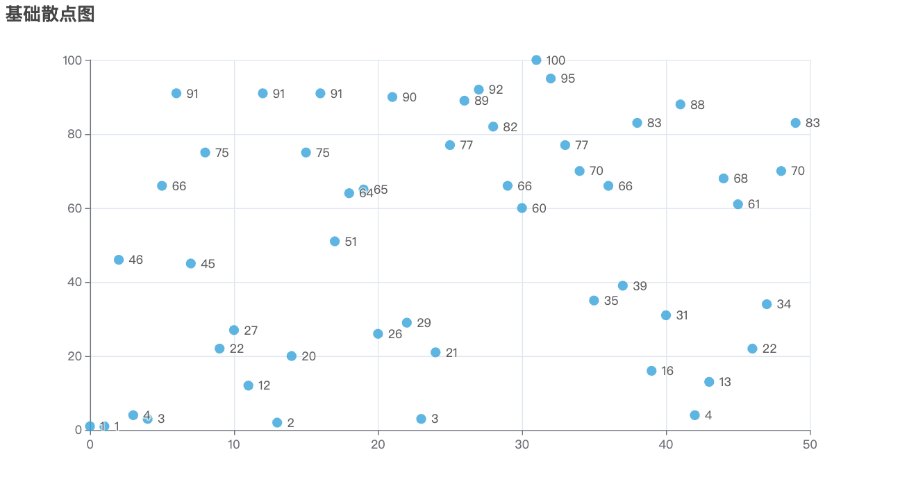
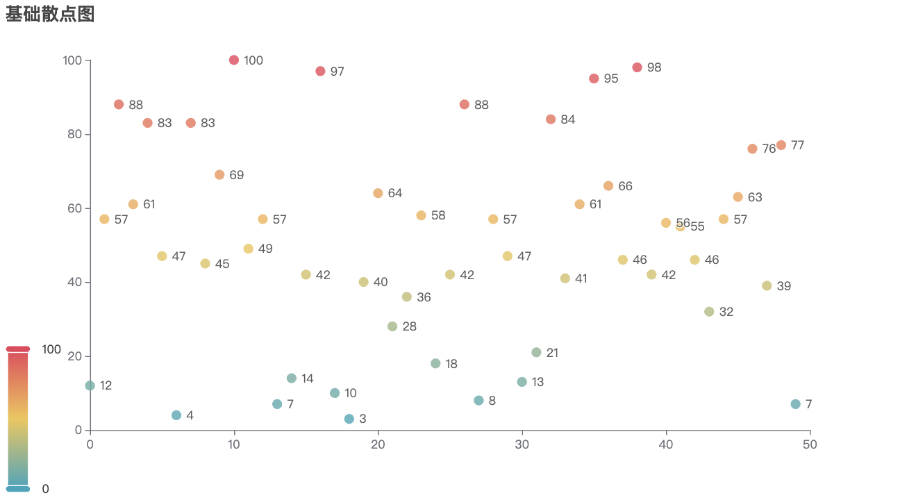
pyecharts

diff --git a/docs/analysis/pyecharts.md b/docs/analysis/pyecharts.md
@@ -230,14 +230,198 @@ scatter = (
     .add_xaxis(x_data)
     .add_yaxis("",y_axis=y_data)
     .set_global_opts(title_opts=opts.TitleOpts(title="基础散点图"),
-                     xaxis_opts=opts.AxisOpts(type_="value"),
-                     yaxis_opts=opts.AxisOpts(type_="value"),
-                     toolbox_opts=opts.ToolboxOpts())
+                     xaxis_opts=opts.AxisOpts(type_="value",splitline_opts=opts.SplitLineOpts()),
+                     yaxis_opts=opts.AxisOpts(type_="value",splitline_opts=opts.SplitLineOpts()),
+                     toolbox_opts=opts.ToolboxOpts(),
+                     visualmap_opts=opts.VisualMapOpts(),
+                )
 )
 
 scatter.render_notebook()
 ```
 ![基础散点图.png](../imgs/pyecharts/%E5%9F%BA%E7%A1%80%E6%95%A3%E7%82%B9%E5%9B%BE.png)
+
+### set_global_opts 
+
+| 参数名              | 类型            | 说明                                                                 |
+|---------------------|-----------------|----------------------------------------------------------------------|
+| title_opts          | TitleOpts       | 设置图表主标题和副标题，如位置、字体、颜色等                       |
+| legend_opts         | LegendOpts      | 设置图例相关属性，如位置、方向、是否显示等                         |
+| tooltip_opts        | TooltipOpts     | 设置悬浮提示框属性，如触发方式、格式等                             |
+| toolbox_opts        | ToolboxOpts     | 设置工具箱（右上角下载图、缩放等功能按钮）                         |
+| visualmap_opts      | VisualMapOpts   | 设置视觉映射组件（通常用于热度图、散点图等，显示颜色-数值映射）   |
+| xaxis_opts          | AxisOpts        | 设置 X 轴属性（如坐标轴线、刻度、标签、是否显示网格线等）          |
+| yaxis_opts          | AxisOpts        | 设置 Y 轴属性（同上）                                                |
+| datazoom_opts       | DataZoomOpts    | 设置缩放组件（图表内缩放滚动）                                     |
+| brush_opts          | BrushOpts       | 设置区域选择组件（用于框选数据）                                   |
+| axispointer_opts    | AxisPointerOpts | 设置坐标轴指示器（用于高亮或提示交叉点）                           |
+| timeline_opts       | TimelineOpts    | 配合时间轴使用（仅适用于时间轴图表）                               |
+
+#### opts.TitleOpts 常用参数详解表
+
+| 参数名        | 类型         | 默认值 | 说明 |
+|---------------|--------------|--------|------|
+| title         | str          | ""     | 主标题内容 |
+| subtitle      | str          | ""     | 副标题内容 |
+| left          | str          | "auto" | 标题水平位置，如 'left', 'center', 'right', 或 '10%' |
+| top           | str          | "auto" | 标题垂直位置，如 'top', 'middle', 'bottom', 或 '10%' |
+| right         | str          | None   | 水平位置右对齐的另一方式（一般不常用） |
+| bottom        | str          | None   | 垂直位置底对齐的另一方式（一般不常用） |
+| item_gap      | int          | 10     | 主标题和副标题之间的间距（像素） |
+| text_align    | str          | None   | 标题内容水平对齐方式，如 'left'、'center'、'right' |
+| text_vertical_align | str   | None   | 标题内容垂直对齐方式，如 'top'、'middle'、'bottom' |
+| text_style    | TextStyleOpts| -      | 主标题的文本样式配置（字体、颜色、大小等） |
+| subtext_style | TextStyleOpts| -      | 副标题的文本样式配置 |
+| target        | str          | "blank"| 如果主标题或副标题设置了超链接，表示点击打开的方式，'blank' 或 'self' |
+| link          | str          | ""     | 主标题的超链接地址 |
+| sublink       | str          | ""     | 副标题的超链接地址 |
+
+####  legend_opts 常用参数详解
+
+| 参数名           | 类型         | 默认值     | 说明                                                                 |
+|------------------|--------------|------------|----------------------------------------------------------------------|
+| is_show          | bool         | True       | 是否显示图例                                                         |
+| pos_left         | str          | 'auto'     | 图例组件离容器左侧的距离（例如 `'10%'`, `'center'`, `'right'`）     |
+| pos_right        | str          | 'auto'     | 图例组件离容器右侧的距离                                             |
+| pos_top          | str          | 'auto'     | 图例组件离容器上侧的距离（例如 `'top'`, `'10%'`）                    |
+| pos_bottom       | str          | 'auto'     | 图例组件离容器下侧的距离                                             |
+| orient           | str          | 'horizontal'| 图例排列方向：`'horizontal'` 或 `'vertical'`                        |
+| type_            | str          | 'plain'    | 图例类型：普通图例 `'plain'` 或可滚动图例 `'scroll'`               |
+| selected_mode    | str / bool   | 'multiple' | 图例选择模式：`'multiple'`, `'single'`, 或 `False` 禁用点击         |
+| textstyle_opts   | TextStyleOpts| 默认样式   | 图例文本样式（如字体大小、颜色等）                                  |
+| item_width       | int          | 25         | 图例标记的图形宽度                                                  |
+| item_height      | int          | 14         | 图例标记的图形高度                                                  |
+| item_gap         | int          | 10         | 图例每项之间的间距                                                  |
+| background_color | str          | 'transparent' | 图例背景色，支持 rgba 或 hex                                    |
+| border_color     | str          | '#ccc'     | 图例边框颜色                                                        |
+| border_width     | int          | 0          | 图例边框宽度                                                        |
+
+
+####  TooltipOpts 常用参数说明
+
+| 参数名             | 类型            | 默认值        | 说明 |
+|------------------|----------------|--------------|------|
+| is_show          | bool           | True         | 是否显示提示框组件 |
+| trigger          | str            | 'item'       | 触发类型，可选：'item'（数据项触发）或 'axis'（坐标轴触发）|
+| trigger_on       | str            | 'mousemove'  | 提示框触发条件，如 'click'、'mousemove'、'none' 等 |
+| formatter        | str/function   | None         | 提示框内容的格式器，支持字符串模板或 JS 函数 |
+| background_color | str            | 'rgba(50,50,50,0.7)' | 提示框背景颜色 |
+| border_color     | str            | '#333'       | 提示框边框颜色 |
+| border_width     | int            | 0            | 提示框边框宽度 |
+| textstyle_opts   | TextStyleOpts  | 默认样式     | 提示框文字样式设置 |
+| position         | str/function   | None         | 提示框位置，自定义字符串或 JS 函数 |
+| extra_css_text   | str            | None         | 额外注入提示框 CSS 样式（pyecharts 特有）|
+| confine          | bool           | False        | 是否将 tooltip 框限制在图表区域内 |
+| enterable        | bool           | False        | 提示框是否可交互（例如点击提示框内容）|
+
+
+#### xaxis_opts 
+
+| 参数名                | 类型           | 默认值      | 说明 |
+|-----------------------|----------------|-------------|------|
+| type_                 | str            | 'category'  | 坐标轴类型，常用：'value'（数值轴）、'category'（类目轴）、'log'（对数轴）|
+| name                  | str            | 无          | 坐标轴名称 |
+| name_location         | str            | 'end'       | 坐标轴名称显示位置：'start'、'center'、'end' |
+| name_gap              | int            | 15          | 坐标轴名称与轴线的距离 |
+| name_textstyle_opts   | TextStyleOpts  | 无          | 坐标轴名称的文本样式 |
+| min_                  | int/str        | 自动        | 坐标轴最小值，例如 `0` 或 `'dataMin'` |
+| max_                  | int/str        | 自动        | 坐标轴最大值，例如 `100` 或 `'dataMax'` |
+| interval              | int            | 自动        | 坐标轴刻度间隔 |
+| inverse               | bool           | False       | 是否反转坐标轴 |
+| axislabel_opts        | LabelOpts      | 无          | 坐标轴标签相关设置，如字体、角度等 |
+| axistick_opts         | AxisTickOpts   | 无          | 坐标轴刻度相关设置 |
+| axisline_opts         | AxisLineOpts   | 无          | 坐标轴线相关设置 |
+| splitline_opts        | SplitLineOpts  | 无          | 分割线（网格线）相关设置 |
+| split_number          | int            | 5           | 坐标轴分割段数，设置后 `interval` 自动失效 |
+| boundary_gap          | bool/list      | True        | 类目轴两端是否留白，或具体间距 |
+
+
+#### yaxis_opts
+
+| 参数名             | 类型              | 说明                                                                 |
+|------------------|------------------|----------------------------------------------------------------------|
+| `type_`          | str              | 坐标轴类型，可选：`value`（数值轴）、`category`（类目轴）、`log`（对数轴）、`time`（时间轴） |
+| `name`           | str              | 坐标轴名称，会显示在坐标轴末端                                     |
+| `name_location`  | str              | 坐标轴名称位置：`start`，`middle`，`end`                            |
+| `name_gap`       | int              | 坐标轴名称与轴线之间的距离（单位：像素）                           |
+| `name_rotate`    | int              | 名称旋转角度                                                        |
+| `min_`           | str or int       | 坐标轴最小值，如 `'dataMin'`、数值                                 |
+| `max_`           | str or int       | 坐标轴最大值，如 `'dataMax'`、数值                                 |
+| `interval`       | int              | 强制设置坐标轴分割间隔                                              |
+| `axislabel_opts` | AxisLabelOpts    | 设置坐标轴标签样式（字体大小、旋转、格式化等）                     |
+| `axisline_opts`  | AxisLineOpts     | 设置坐标轴轴线样式（是否显示、颜色等）                             |
+| `axistick_opts`  | AxisTickOpts     | 设置刻度样式                                                        |
+| `splitline_opts` | SplitLineOpts    | 设置分割线样式（是否显示、线条类型、颜色等）                       |
+| `split_number`   | int              | 分割段数，用于自动计算坐标轴刻度                                   |
+| `scale`          | bool             | 是否脱离 0 值比例，保证坐标轴不从 0 开始                           |
+| `position`       | str              | 坐标轴位置：`left`、`right`                                         |
+
+#### visualmap_opts
+
+| 参数名         | 类型       | 说明                                                                 |
+|----------------|------------|----------------------------------------------------------------------|
+| `type_`        | str        | 指定类型，可选 `"continuous"`（连续型）或 `"piecewise"`（分段型）。默认 `"continuous"`。|
+| `min_`         | int/float  | 视觉映射的最小值。通常与图表数据的最小值对应。                       |
+| `max_`         | int/float  | 视觉映射的最大值。通常与图表数据的最大值对应。                       |
+| `range_color`  | list[str]  | 映射的颜色范围，如 `["#f6efa6", "#d88273", "#bf444c"]`。              |
+| `orient`       | str        | 图例方向，`"vertical"` 或 `"horizontal"`。默认 `"vertical"`。         |
+| `pos_left`     | str        | 组件距离左侧的距离，如 `"left"`、`"20%"`、`"100px"`。                  |
+| `pos_right`    | str        | 组件距离右侧的距离。与 `pos_left` 类似，二者互斥。                    |
+| `pos_top`      | str        | 组件距离顶部的距离，如 `"top"`、`"10px"` 等。                         |
+| `pos_bottom`   | str        | 组件距离底部的距离。                                                  |
+| `textstyle_opts` | TextStyleOpts | 文本样式设置，例如字体大小、颜色等。                                 |
+| `is_calculable` | bool      | 是否显示拖拽用的手柄（仅适用于 `type_="continuous"`）。                |
+| `dimension`     | int/str   | 使用数据的第几维度进行视觉映射。用于多维度数据。                     |
+| `series_index`  | list[int] | 映射作用到哪些系列（series），用序号指定。                            |
+| `item_width`    | int       | 图例组件每项的宽度（主要用于 `piecewise` 类型）。                     |
+| `item_height`   | int       | 图例组件每项的高度。                                                  |
+| `is_inverse`    | bool      | 是否反转视觉映射。                                                    |
+| `split_number`  | int       | 视觉映射组件的分段数量（用于 `continuous` 类型）。                    |
+
+
+#### datazoom_opts
+
+
+| 参数名              | 类型           | 说明                                                         | 默认值          | 备注                               |
+|--------------------|---------------|--------------------------------------------------------------|-----------------|----------------------------------|
+| `type_`            | `str`         | 数据缩放类型，常用 `"slider"`（滑动条）或 `"inside"`（内置缩放） | `"slider"`      | 控制缩放条的表现形式             |
+| `is_show`          | `bool`        | 是否显示数据缩放组件                                         | `True`          | 设置为 `False` 则不显示          |
+| `xaxis_index`      | `int` 或 `list` | 指定该缩放组件控制的 x 轴索引                               | `0`             | 支持多个轴索引列表               |
+| `yaxis_index`      | `int` 或 `list` | 指定该缩放组件控制的 y 轴索引                               | 无              | 一般不常用                      |
+| `start`            | `int`         | 起始百分比，控制缩放窗口起始位置，范围 0~100                 | `0`             | 初始显示的起点百分比             |
+| `end`              | `int`         | 结束百分比，控制缩放窗口结束位置，范围 0~100                 | `100`           | 初始显示的终点百分比             |
+| `orient`           | `str`         | 布局方向，`"horizontal"`（水平）或 `"vertical"`（垂直）       | `"horizontal"`  | 缩放条的方向                   |
+| `filter_mode`      | `str`         | 数据过滤模式，`"filter"`（过滤数据）、`"empty"`（隐藏数据点） | `"filter"`      | 控制缩放后数据的处理方式         |
+| `zoom_lock`        | `bool`        | 是否锁定缩放组件，禁止缩放                                  | `False`         | 锁定后不能调整缩放范围           |
+| `min_span`         | `int`         | 缩放窗口的最小跨度百分比                                     | 无              | 限制缩放窗口最小范围             |
+| `max_span`         | `int`         | 缩放窗口的最大跨度百分比                                     | 无              | 限制缩放窗口最大范围             |
+| `range_mode`       | `list`        | 范围模式，定义起点和终点如何计算                             | `[]`            | 高级用法，一般不常用             |
+| `background_color` | `str`         | 缩放条背景色                                                | 无              | 支持颜色代码或名称               |
+| `data_background`  | `dict`        | 数据背景样式配置                                            | 无              | 可设置颜色、透明度等             |
+| `handle_style`     | `dict`        | 缩放手柄样式                                                | 无              | 控制缩放手柄的颜色、边框等       |
+| `text_style`       | `dict`        | 缩放组件文字样式                                            | 无              | 字体颜色、大小等                 |
+
+### set_series_opts
+
+| 参数名               | 类型               | 说明                                                         | 默认值      | 备注                             |
+|----------------------|--------------------|--------------------------------------------------------------|-------------|----------------------------------|
+| `label_opts`         | `LabelOpts`        | 系列标签配置，控制标签文字的显示、位置、格式等               | 无          | 如是否显示标签，字体大小颜色等   |
+| `markpoint_opts`     | `MarkPointOpts`    | 标记点配置，用于突出显示特殊数据点                           | 无          | 支持最大值、最小值、自定义点等   |
+| `markline_opts`      | `MarkLineOpts`     | 标记线配置，用于标注特定的线，如均值线、阈值线               | 无          | 支持类型和自定义线段             |
+| `markarea_opts`      | `MarkAreaOpts`     | 标记区域配置，用于突出显示区间范围                           | 无          | 区域高亮显示                    |
+| `areastyle_opts`     | `AreaStyleOpts`    | 区域样式配置，主要用于折线图的填充区域                       | 无          | 颜色、透明度等                  |
+| `linestyle_opts`     | `LineStyleOpts`    | 线条样式配置，如颜色、宽度、线型（实线、虚线等）              | 无          | 只对折线图有效                  |
+| `itemstyle_opts`     | `ItemStyleOpts`    | 图形样式配置，如柱状图、饼图的颜色、边框、阴影等              | 无          | 调整系列图形视觉效果            |
+| `tooltip_opts`       | `TooltipOpts`      | 提示框配置，控制鼠标悬浮时显示内容和样式                     | 无          | 可自定义格式和样式              |
+| `stack`              | `str`              | 堆叠系列名称，相同名称的系列会堆叠显示                       | 无          | 用于堆叠柱状图、折线图          |
+| `smooth`             | `bool`             | 是否平滑折线                                                | `False`     | 只对折线图有效                  |
+| `symbol`             | `str`              | 数据点标记形状，如 `"circle"`, `"rect"`, `"triangle"`         | `"circle"`  | 折线图或散点图数据点形状        |
+| `symbol_size`        | `int` 或 `func`    | 数据点标记大小                                             | `4`         | 支持函数动态设置大小            |
+| `is_selected`        | `bool`             | 是否选中该系列                                             | `True`      | 影响图例默认选中状态            |
+| `label_show`         | `bool`             | 是否显示标签                                               | `False`     | 简写，等同于设置 `label_opts`   |
+| `emphasis`           | `EmphasisOpts`     | 高亮状态配置，鼠标悬浮或选中时的样式                       | 无          | 可设置高亮颜色、字体等          |
+
+
 
 
 
